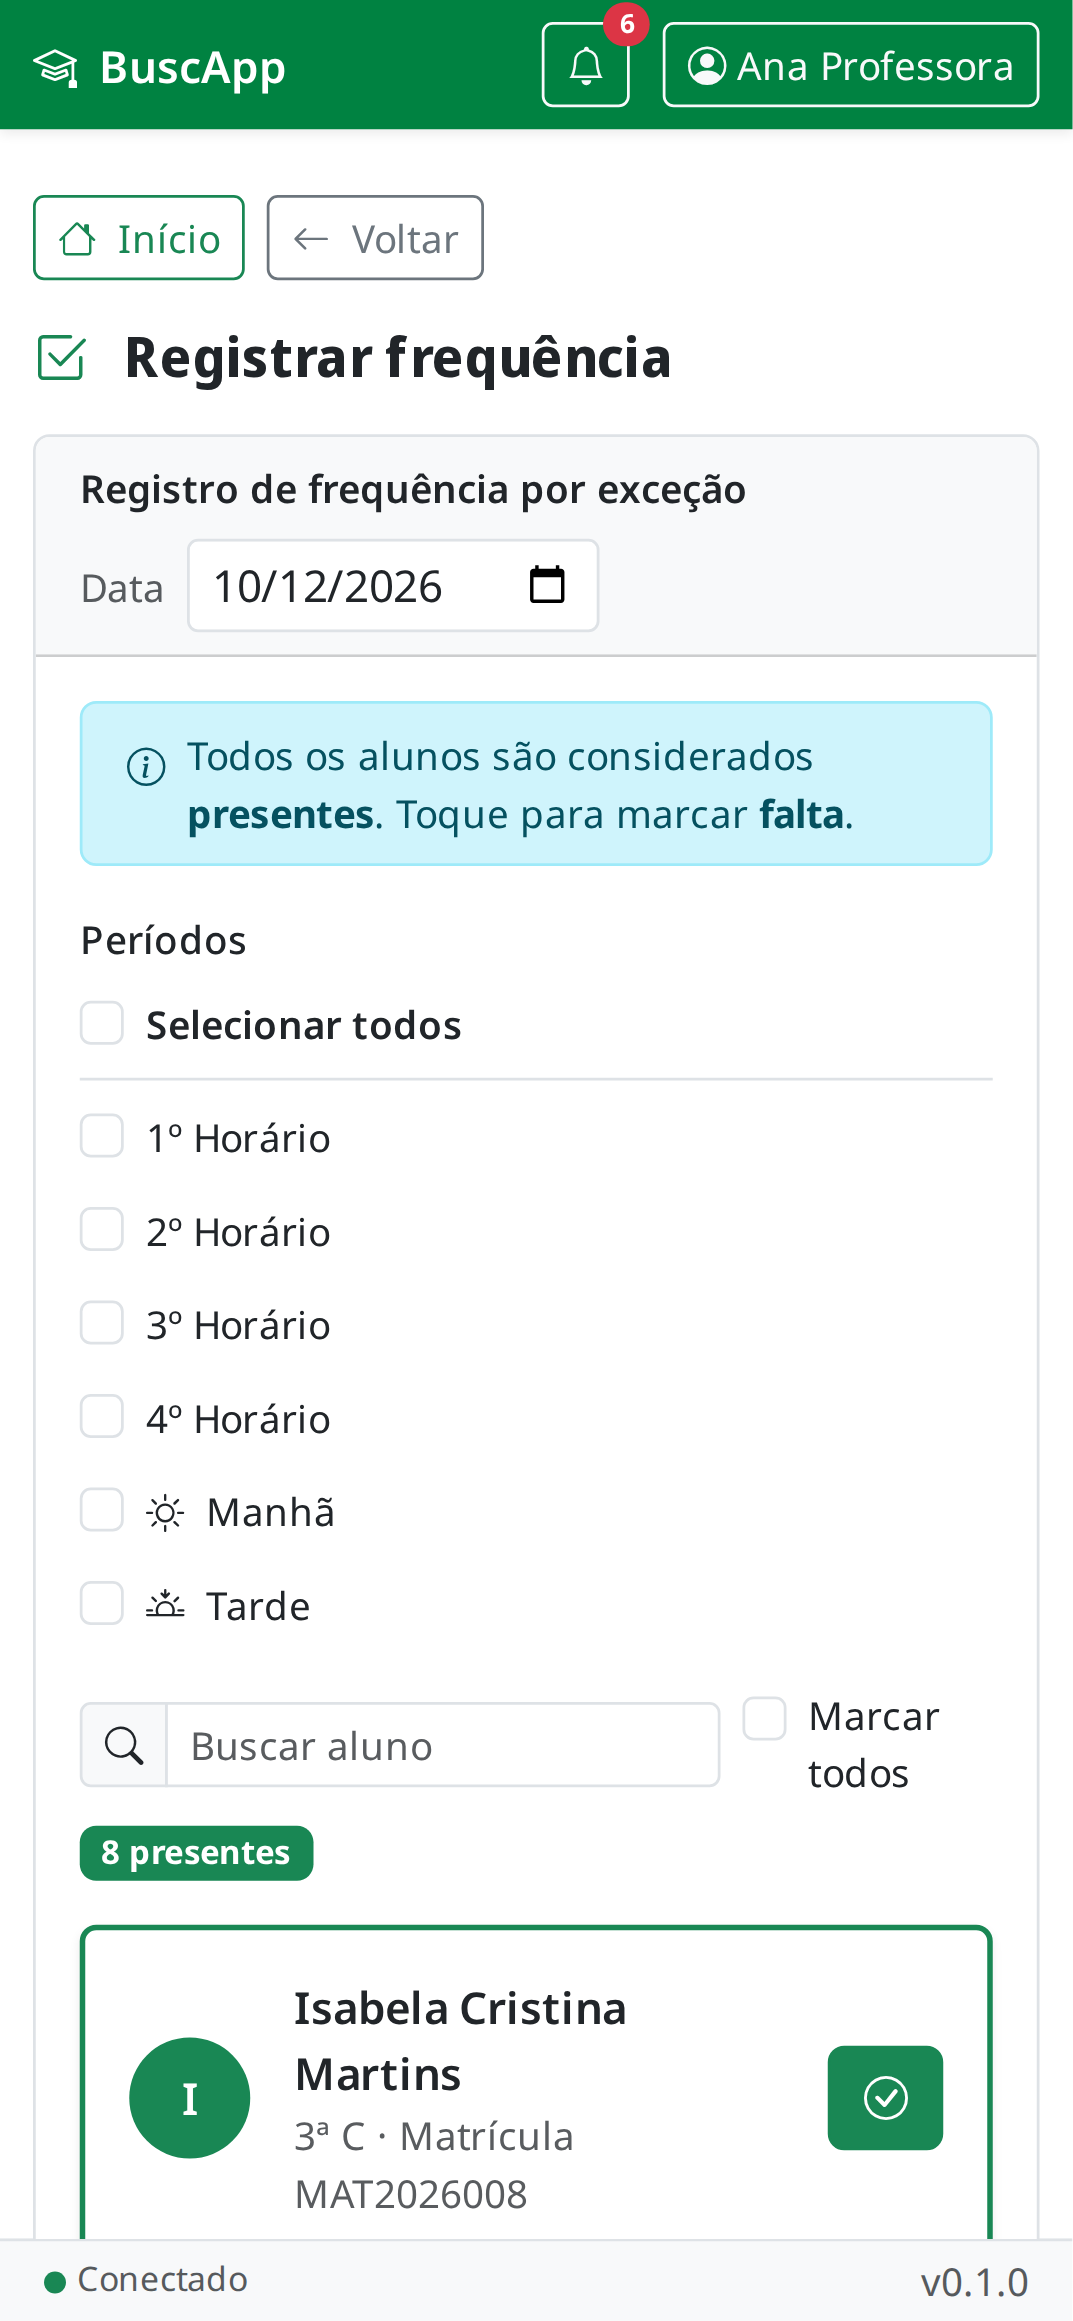
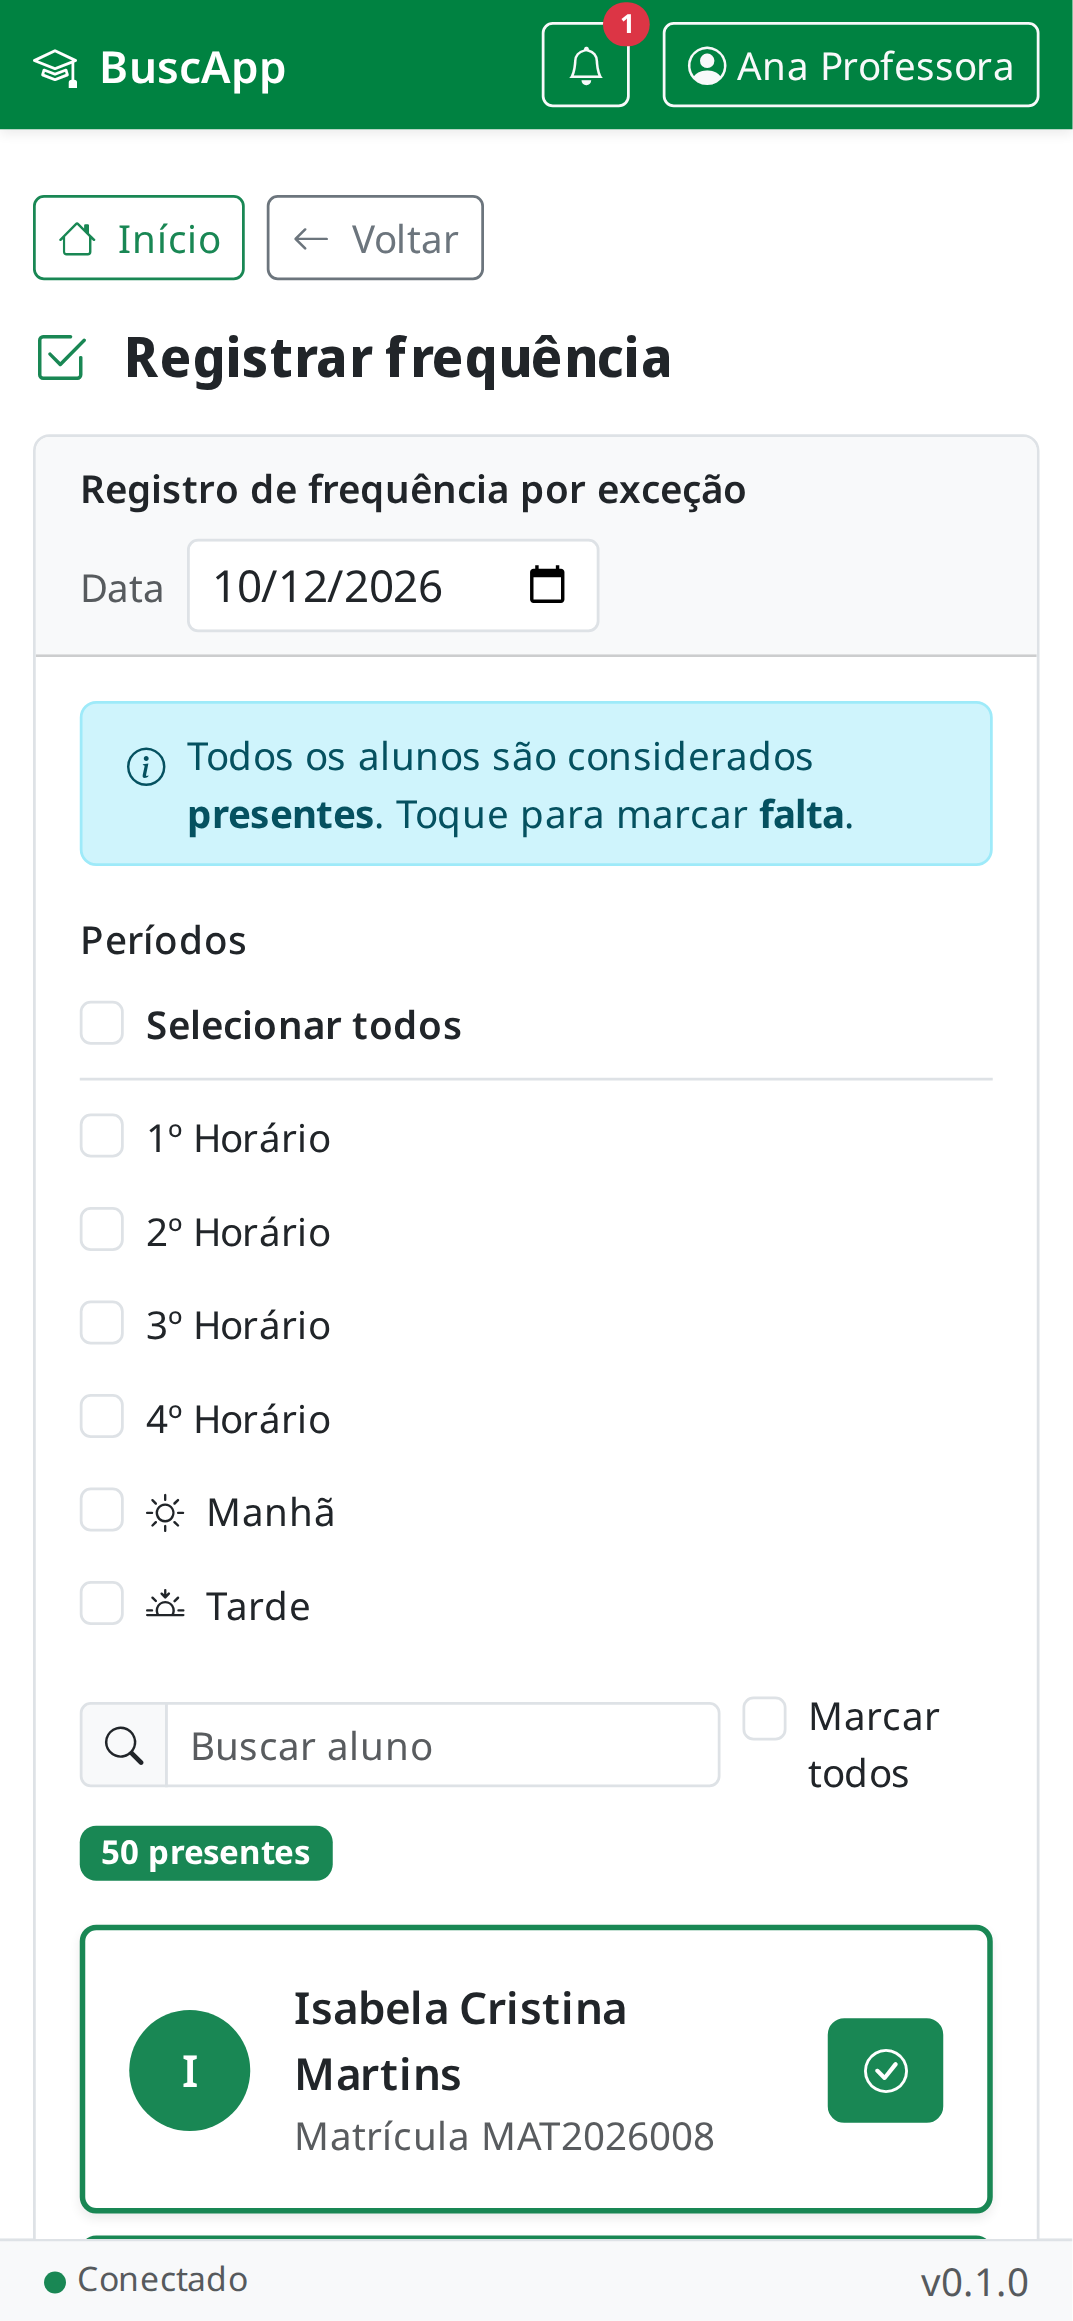
test(e2e): captura as telas com a massa e amplia o combobox
Assisted-by: opencode:deepseek-v4.1-flash

diff --git a/tests/e2e/imagens.spec.ts b/tests/e2e/imagens.spec.ts
@@ -3,10 +3,46 @@
 import { mkdir } from 'node:fs/promises';
 import path from 'node:path';
 import { expect, test } from '@playwright/test';
-import { SENHA_ADMIN, SENHA_PROF } from '../suporte/dados.js';
+import { SENHA_ADMIN, SENHA_PROF, SENHA_RESP } from '../suporte/dados.js';
+import { consultar, executar } from '../suporte/banco.js';
 import { login } from '../suporte/sessao.js';
 
 const pastaImagens = path.resolve(process.cwd(), 'docs/imagens');
+
+/**
+ * Abre o horário letivo por agora e restaura ao final, para a captura do chat
+ * não depender da hora em que as imagens foram geradas.
+ */
+async function comHorarioLetivoAberto<T>(acao: () => Promise<T>): Promise<T> {
+  const janelas = await consultar<{ id: string; hora_inicio: string; hora_fim: string }>(
+    'select id, hora_inicio::text as hora_inicio, hora_fim::text as hora_fim from public.horarios_letivos where ativo = true',
+  );
+  await executar(
+    "update public.horarios_letivos set hora_inicio = '00:00', hora_fim = '23:59' where ativo = true",
+  );
+  try {
+    return await acao();
+  } finally {
+    for (const janela of janelas) {
+      await executar(
+        'update public.horarios_letivos set hora_inicio = $1, hora_fim = $2 where id = $3',
+        [janela.hora_inicio, janela.hora_fim, janela.id],
+      );
+    }
+  }
+}
+
+/**
+ * As capturas dependem da massa do seed. Sem ela, falha com orientação explícita
+ * em vez de gravar imagens vazias no README.
+ */
+function exigirMassa(condicao: boolean, descricao: string): void {
+  if (!condicao) {
+    throw new Error(
+      `Massa do seed ausente: ${descricao}. Rode "pnpm --filter @buscapp/api run seed" antes das capturas.`,
+    );
+  }
+}
 
 test.describe('Capturas do README', () => {
   test('painel da gestão no desktop', async ({ page }, testInfo) => {
@@ -16,6 +52,13 @@ test.describe('Capturas do README', () => {
     await login(page, 'gestao@escola.edu.br', SENHA_ADMIN);
     await page.goto('/gestao/ranking');
     await expect(page.getByText('Ranking de priorização de risco')).toBeVisible();
+    const cartoes = page.locator('.card').filter({ hasText: 'Matrícula' });
+    await expect(cartoes.first()).toBeVisible({ timeout: 15000 });
+    exigirMassa(
+      (await cartoes.count()) >= 20,
+      'o ranking precisa das turmas e dos alunos do seed',
+    );
+    await expect(cartoes.filter({ hasText: 'João Miguel da Silva' })).toBeVisible();
     await page.evaluate(() => document.fonts.ready);
     await page.screenshot({
       path: path.join(pastaImagens, 'painel-gestao-desktop.png'),
@@ -34,10 +77,68 @@ test.describe('Capturas do README', () => {
     await page.goto('/professor/frequencia');
     await expect(page.getByText('Registrar frequência')).toBeVisible();
     await expect(page.locator('input[type="date"]')).toBeVisible();
+    const alunos = page.locator('.card-body .card');
+    await expect(alunos.first()).toBeVisible({ timeout: 15000 });
+    exigirMassa(
+      (await alunos.count()) >= 20,
+      'a chamada do professor precisa dos alunos do seed',
+    );
+    await expect(page.getByRole('button', { name: /João Miguel da Silva/ })).toBeVisible();
     await page.evaluate(() => document.fonts.ready);
     await page.screenshot({
       path: path.join(pastaImagens, 'chamada-professor-mobile.png'),
       animations: 'disabled',
+    });
+  });
+
+  test('ocorrências da gestão no desktop', async ({ page }, testInfo) => {
+    test.skip(testInfo.project.name !== 'chromium', 'Captura de desktop apenas no Chromium.');
+    await mkdir(pastaImagens, { recursive: true });
+    await page.setViewportSize({ width: 1440, height: 900 });
+    await login(page, 'gestao@escola.edu.br', SENHA_ADMIN);
+    await page.goto('/gestao/ocorrencias');
+    await expect(page.getByText('Ocorrências graves e suspensões')).toBeVisible();
+    const registros = page.locator('article');
+    await expect(registros.first()).toBeVisible({ timeout: 15000 });
+    exigirMassa(
+      (await registros.count()) >= 3,
+      'a central de ocorrências precisa das ocorrências do seed',
+    );
+    await page.evaluate(() => document.fonts.ready);
+    await page.screenshot({
+      path: path.join(pastaImagens, 'ocorrencias-gestao-desktop.png'),
+      animations: 'disabled',
+    });
+  });
+
+  test('chat do responsável no celular', async ({ page }, testInfo) => {
+    test.skip(
+      testInfo.project.name !== 'Mobile Chrome',
+      'Captura de celular apenas no Mobile Chrome.',
+    );
+    await mkdir(pastaImagens, { recursive: true });
+    await page.setViewportSize({ width: 390, height: 844 });
+    await login(page, 'resp1@email.com', SENHA_RESP);
+    await comHorarioLetivoAberto(async () => {
+      await page.goto('/responsavel/chat');
+      const contatos = page.locator('.chat-sidebar button');
+      await expect(contatos.first()).toBeVisible({ timeout: 15000 });
+      exigirMassa(
+        (await contatos.count()) >= 1,
+        'o chat do responsável precisa das conversas do seed',
+      );
+      await contatos.first().click();
+      const mensagens = page.locator('.chat-messages .rounded-3');
+      await expect(mensagens.first()).toBeVisible({ timeout: 15000 });
+      exigirMassa(
+        (await mensagens.count()) >= 1,
+        'o chat do responsável precisa das mensagens do seed',
+      );
+      await page.evaluate(() => document.fonts.ready);
+      await page.screenshot({
+        path: path.join(pastaImagens, 'chat-responsavel-mobile.png'),
+        animations: 'disabled',
+      });
     });
   });
 });

diff --git a/tests/e2e/combobox.spec.ts b/tests/e2e/combobox.spec.ts
@@ -9,9 +9,11 @@ test.describe('Combobox - todos os dropdowns viraram combobox', () => {
     await expect(page.locator('#campoTurma')).toBeVisible();
     await page.click('#campoTurma');
     await expect(page.locator('#campoTurma-lista [role="option"]').first()).toBeVisible();
-    // Filtra por "3ª"
+    // Filtra por "3ª"; a massa do seed tem as três letras da série.
     await page.fill('#campoTurma', '3ª');
-    await expect(page.locator('#campoTurma-lista [role="option"]')).toContainText('3ª');
+    const opcoes = page.locator('#campoTurma-lista [role="option"]');
+    await expect(opcoes.first()).toBeVisible();
+    await expect(opcoes.filter({ hasNotText: '3ª' })).toHaveCount(0);
     await page.keyboard.press('Escape');
   });
 

diff --git a/tests/README.md b/tests/README.md
@@ -48,7 +48,7 @@ pnpm run capturas:readme         # Playwright local
 pnpm run capturas:readme:docker  # imagem oficial, com o aplicativo no ar
 ```
 
-O spec captura o painel da gestão em 1440x900 no Chromium e a chamada do professor em 390x844 no Mobile Chrome, sempre com massa sintética. Não edite os PNGs à mão: regenere pelo comando e revise o diff.
+O spec captura o ranking da gestão em 1440x900 no Chromium, a chamada do professor em 390x844 no Mobile Chrome, a central de ocorrências da gestão em 1440x900 e o chat do responsável em 390x844, sempre com massa sintética. Cada captura verifica a presença da massa e falha com orientação para rodar o seed quando ela falta. Não edite os PNGs à mão: regenere pelo comando e revise o diff.
 
 ## Suporte
 
@@ -65,4 +65,4 @@ Os helpers ficam em `tests/suporte`:
 
 ## Massa e limpeza
 
-A massa usa emails datados e o domínio de desenvolvimento. Os testes de API limpam no `afterAll`; os E2E limpam pelas funções de `tests/suporte/api.ts`. Nunca use dados reais. O seed de desenvolvimento é pré-requisito dos testes E2E, e as senhas vêm de `SEED_SENHA_*`.
+A massa usa emails datados e o domínio de desenvolvimento. Os testes de API limpam no `afterAll`; os E2E limpam pelas funções de `tests/suporte/api.ts`. Nunca use dados reais. O seed de desenvolvimento é pré-requisito dos testes E2E, simula o ano letivo corrente com 9 turmas e cerca de 42 alunos por turma e aceita os parâmetros `SEED_PERFIL`, `SEED_SEMENTE` e `SEED_LIMPAR`; as senhas vêm de `SEED_SENHA_*`.

diff --git a/CHANGELOG.md b/CHANGELOG.md
@@ -35,6 +35,7 @@ Enquanto a primeira versão pública não é lançada, a versão do projeto perm
 - Tela de login com os links do repositório no GitHub e da documentação da API, e diálogo Sobre com os desenvolvedores, o repositório, a instituição e a licença, também aberto no menu do usuário.
 - ADR-016 sobre a documentação interativa e o CSP por URL.
 - Seed de desenvolvimento realista e determinístico: simula o ano letivo corrente com 9 turmas de 1ª a 3ª série, cerca de 42 alunos por turma, frequências em cauda longa, justificativas avaliadas e pendentes, ocorrências com tags, conversas de chat em horário letivo, notificações, auditoria e monitoramento, com os parâmetros `SEED_PERFIL`, `SEED_SEMENTE` e `SEED_LIMPAR` e limpeza por marcador próprio.
+- Capturas do README ampliadas para quatro telas: ranking da gestão e ocorrências no desktop, chamada do professor e chat do responsável no celular, com verificação da massa e mensagem orientando a rodar o seed.
 
 ### Corrigido
 
